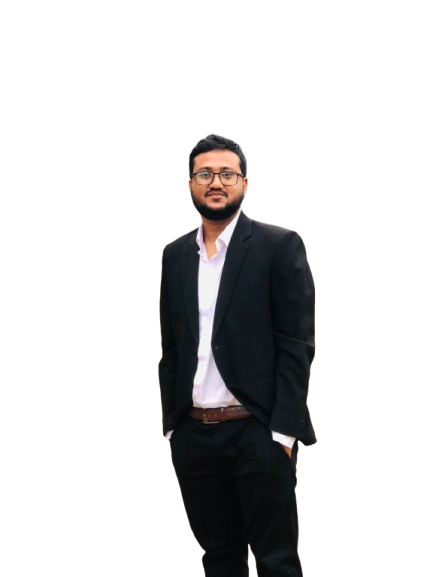
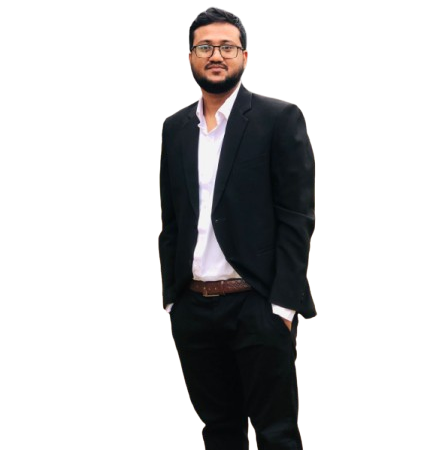
Hero section some changes

diff --git a/index.html b/index.html
@@ -7,7 +7,7 @@
     <meta name="description" content="Premium Bootstrap 4 Landing Page Template" />
     <meta name="keywords" content="bootstrap 4, premium, marketing, multipurpose" />
     <meta name="author" content="Zoyothemes">
-    <title>Foysal Hasib - Personal Portfolio Template</title>
+    <title>Foysal Hasib Portfolio </title>
 
     <!-- Favicon -->
     <link rel="shortcut icon" href="images/favicon.ico">
@@ -38,7 +38,7 @@
     <!-- Navbar Start -->
     <nav class="navbar navbar-expand-lg fixed-top sticky" id="navbar">
         <div class="container">
-            <a class='navbar-brand' href='/natia/layout/'>
+            <a class='navbar-brand' href='index.html'>
                 <span class="logo-light-mode">
                     <img src="images/logo/logo.png" class="l-light" alt="images/logo/logo.png">
                     <img src="images/logo/logo.png" class="l-dark" alt="images/logo/logo.png">
@@ -81,7 +81,7 @@
     </nav>
     <!-- Navbar End -->
 
-    <!-- Start Hero -->
+    <!--=============================  Start Hero ==========================================-->
     <section class="bg-half-170 d-table w-100 home4-section pb-0" id="home">
         <div class="container">
 
@@ -92,7 +92,7 @@
                         <span class="para-desc punch-line text-white align-content-center justify-content-center" style="--bs-text-opacity: .8;">
                         The Best MERN Stack Expert
                         </span>
-                        <h4 class="typed-heading mt-4">Hi, i'm  <span class="text-primary">Foysal Hasib</span> Professional MERN Stack Developer.</h4>
+                        <h4 class="typed-heading mt-4">Hi, i'm  <span class="text-primary">Foysal Hasib</span> Professional MERN Stack Developer & Ads Specialist.</h4>
                         <p class="text-white para-desc mx-auto mb-0 mt-3" style="--bs-text-opacity: .8;">
                             I specialize in building responsive, dynamic web applications using MongoDB, Express, React, and Node.js for scalable solutions.
                         </p>
@@ -104,9 +104,10 @@
                     </div>
                 </div><!-- End col -->
 
+
                 <div class="col-lg-6 col-md-6 position-relative mt-4 pt-2 mt-sm-0 pt-sm-0">
                     
-                    <div class="hero-thumb-avatar rounded p-3">
+                    <!-- <div class="hero-thumb-avatar rounded p-3">
                         <h6 class="text-primary avatar-title mb-2">Real Customer</h6>
                         <div class="d-inline-flex align-items-center">
                             <div class="avatar-group">
@@ -118,13 +119,15 @@
                                 <img class="img-fluid avatar-sm avatar-group-item" src="images/client/img-10.jpg" alt="Avatar">
                             </div>  
                         </div>
-                    </div>
+                    </div> -->
 
                     <div class="position-relative demo-3">
                         <img src="images/home/banner.png" class="img-fluid mx-auto d-block"></img>
                     </div>
 
-                    <div class="hero-thumb-exep rounded p-3">
+                   
+
+                    <!-- <div class="hero-thumb-exep rounded p-3">
                         <div class="d-inline-flex">
                             <h6 class="experience-year text-primary me-3">8+</h6>
                             <div class="experience-section">
@@ -132,7 +135,7 @@
                                 <p class="experience-pera mb-0">Experience</p>
                             </div>
                         </div>
-                    </div>
+                    </div> -->
 
                 </div><!-- End col -->
             </div><!-- End row -->
@@ -880,8 +883,7 @@
                             <img src="images/portfolio/pic1.png" class="img-fluid" alt="work-image">
                             <div class="overlay-work bg-dark"></div>
                             <div class="content">
-                                <h5 class="mb-3"><a class='content-title' href='/natia/layout/portfolio'>Mockup Collection</a></h5>
-                                <h6 class="text-light tag mb-0">Mockup</h6>
+                                <h5 class="mb-3"><a class='content-title' target="_blank" href='https://foysalhasib.github.io/Restaurent_Website/'>Click here</a></h5>
                             </div>
                         </div>
                     </div>
@@ -894,8 +896,8 @@
                             <img src="images/portfolio/pic2.png" class="img-fluid" alt="work-image">
                             <div class="overlay-work bg-dark"></div>
                             <div class="content">
-                                <h5 class="mb-3"><a class='content-title' href='/natia/layout/portfolio'>Mockup Collection</a></h5>
-                                <h6 class="text-light tag mb-0">Mockup</h6>
+                                <h5 class="mb-3"><a class='content-title' target="_blank" href='https://foysalhasib.github.io/Logoipsum_Protfolio_Website/'>Click here </a></h5>
+                              
                             </div>
                         </div>
                     </div>
@@ -908,8 +910,8 @@
                             <img src="images/portfolio/pic3.png" class="img-fluid" alt="work-image">
                             <div class="overlay-work bg-dark"></div>
                             <div class="content">
-                                <h5 class="mb-3"><a class='content-title' href='/natia/layout/portfolio'>Mockup Collection</a></h5>
-                                <h6 class="text-light tag mb-0">Mockup</h6>
+                                <h5 class="mb-3"><a class='content-title' target="_blank" href='https://foysalhasib.github.io/Agenc_Website/'>Click here </a></h5>
+                                
                             </div>
                         </div>
                     </div>
@@ -922,8 +924,8 @@
                             <img src="images/portfolio/analog_clock.png" class="img-fluid" alt="work-image">
                             <div class="overlay-work bg-dark"></div>
                             <div class="content">
-                                <h5 class="mb-3"><a class='content-title' href='/natia/layout/portfolio'>Mockup Collection</a></h5>
-                                <h6 class="text-light tag mb-0">Mockup</h6>
+                                <h5 class="mb-3"><a class='content-title' target="_blank" href='/natia/layout/portfolio'>Click here </a></h5>
+                               
                             </div>
                         </div>
                     </div>
@@ -936,8 +938,8 @@
                             <img src="images/portfolio/calculator.png" class="img-fluid" alt="work-image">
                             <div class="overlay-work bg-dark"></div>
                             <div class="content">
-                                <h5 class="mb-3"><a class='content-title' href='/natia/layout/portfolio'>Mockup Collection</a></h5>
-                                <h6 class="text-light tag mb-0">Mockup</h6>
+                                <h5 class="mb-3"><a class='content-title' target="_blank" href='/natia/layout/portfolio'>Click here </a></h5>
+                                
                             </div>
                         </div>
                     </div>
@@ -950,8 +952,8 @@
                             <img src="images/portfolio/todo.png" class="img-fluid" alt="work-image">
                             <div class="overlay-work bg-dark"></div>
                             <div class="content">
-                                <h5 class="mb-3"><a class='content-title' href='/natia/layout/portfolio'>Mockup Collection</a></h5>
-                                <h6 class="text-light tag mb-0">Mockup</h6>
+                                <h5 class="mb-3"><a class='content-title' target="_blank" href='https://foysalhasib.github.io/to-do-list/'> Click here</a></h5>
+                               
                             </div>
                         </div>
                     </div>
@@ -964,8 +966,8 @@
                             <img src="images/portfolio/quiz.png" class="img-fluid" alt="work-image">
                             <div class="overlay-work bg-dark"></div>
                             <div class="content">
-                                <h5 class="mb-3"><a class='content-title' href='/natia/layout/portfolio'>Mockup Collection</a></h5>
-                                <h6 class="text-light tag mb-0">Mockup</h6>
+                                <h5 class="mb-3"><a class='content-title' target="_blank" href='/natia/layout/portfolio'> Click here</a></h5>
+                                
                             </div>
                         </div>
                     </div>
@@ -979,8 +981,8 @@
                             <img src="images/portfolio/tik-tak-toe.png" class="img-fluid" alt="work-image">
                             <div class="overlay-work bg-dark"></div>
                             <div class="content">
-                                <h5 class="mb-3"><a class='content-title' href='/natia/layout/portfolio'>Mockup Collection</a></h5>
-                                <h6 class="text-light tag mb-0">Mockup</h6>
+                                <h5 class="mb-3"><a class='content-title' target="_blank" href='/natia/layout/portfolio'>Click here </a></h5>
+                                
                             </div>
                         </div>
                     </div>
@@ -992,19 +994,21 @@
                             <img src="images/portfolio/weather.png" class="img-fluid" alt="work-image">
                             <div class="overlay-work bg-dark"></div>
                             <div class="content">
-                                <h5 class="mb-3"><a class='content-title' href='/natia/layout/portfolio'>Mockup Collection</a></h5>
-                                <h6 class="text-light tag mb-0">Mockup</h6>
+                                <h5 class="mb-3"><a class='content-title' target="_blank" href='https://foysalhasib.github.io/weather-app/'> Click here</a></h5>
+                               
                             </div>
                         </div>
                     </div>
                 </div><!--end col-->
             </div><!--end row-->
 
-            <div class="col-12">
+            <!-- <div class="col-12">
                 <div class="text-center">
                     <a href="#!" class="btn btn-primary rounded-pill mt-5"> See more</a>
                 </div>
-            </div><!--end col-->
+            </div> -->
+
+            <!--end col-->
         </div><!-- End container -->
     </section>
 
@@ -1060,8 +1064,8 @@
                     <div class="box">
                         <div class="card" style="--color: #00a6ed;">
                             <i class="fa-brands fa-figma"></i>
-                            <div class="title">UI/UX Design</div>
-                            <div class="description">I design clean, modern UI/UX and develop full-stack web apps using the MERN stack. From wireframes to responsive websites, I ensure a smooth user experience and fast, functional performance.</div>
+                            <div class="title">Ads Specialist</div>
+                            <div class="description">As an Ads Specialist, I create highly effective data-driven campaigns that boost brand awareness and sales. Skilled in Facebook, Google, and multi-platform ads, I optimize targeting for maximum ROI and growth.</div>
                         </div>
                     </div>                   
                   </div>

diff --git a/css/style.css b/css/style.css
@@ -20,7 +20,11 @@
  *     14.  Contact              *
  *     15.  Footer               *  
 **********************************/
+/* ==================================== Hero start ================================== */
 
+
+  
+/* ==================================== Hero end ================================== */
 
 /* =================================== Portfolio  start =================================== */
 #work img{
@@ -920,7 +924,7 @@ p {
 }
 
 .typed-heading {
-  font-size: 54px !important;
+  font-size: 40px !important;
   font-weight: 600 !important;
   line-height: 1.3;
   text-transform: capitalize;
@@ -1864,7 +1868,7 @@ a.text-gradient-light-100:hover, a.text-gradient-light-100:focus {
 
 .navbar .navbar-nav .nav-item .nav-link {
   color: #ffffff;
-  font-size: 13px;
+  font-size: 15px;
   letter-spacing: 1px;
   font-weight: 600;
   text-transform: uppercase;
@@ -2754,10 +2758,14 @@ a.text-gradient-light-100:hover, a.text-gradient-light-100:focus {
   position: absolute;
   opacity: 0;
   z-index: 1;
-  bottom: 110px;
+  bottom: 25px;
+  left: 45% !important;
+  transform: translateX(-45%);
   inset-inline-start: 40px;
   -webkit-transition: all 1s;
   transition: all 1s;
+  text-align: center;  
+
 }
 
 .projects-wrapper .work-container .content .content-title {
